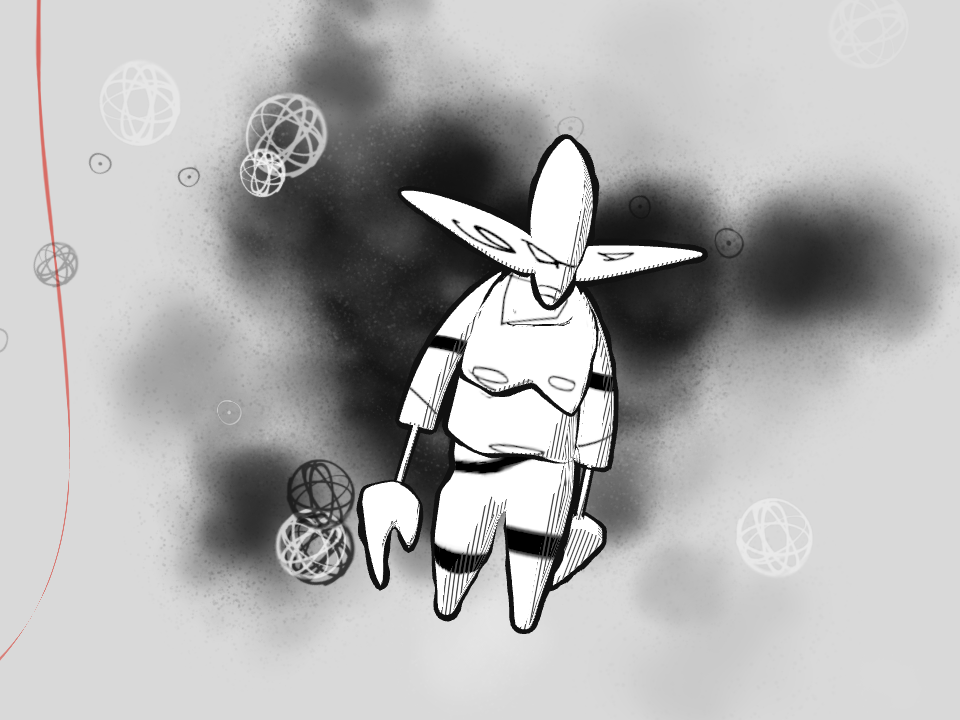
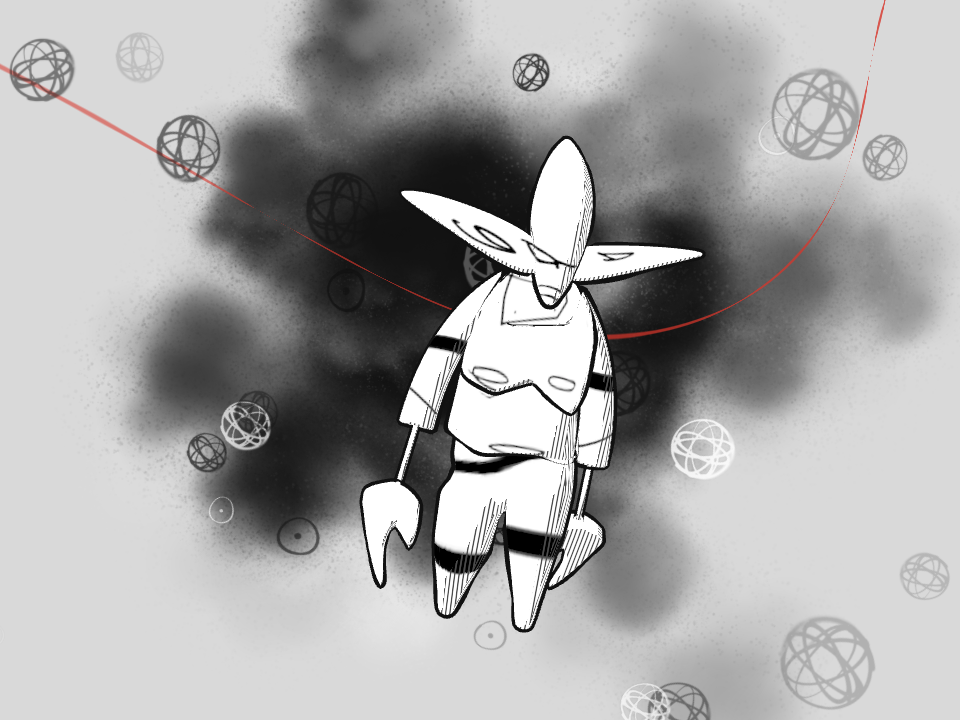
Walk: new default settings

diff --git a/packages/walk/src/main.ts b/packages/walk/src/main.ts
@@ -60,7 +60,7 @@ gltf.scene.traverse(object => { if ((object as THREE.SkinnedMesh).isSkinnedMesh)
 // face sideways where the surface faces front or back, and front where it
 // faces sideways, or they would lie flat against it and smear into bands.
 const shade = {
-  edge: { value: 0.14 },     // how far round from the light the dark side starts
+  edge: { value: 0.13 },     // how far round from the light the dark side starts
   spacing: { value: 0.015 }, // from one hatch line to the next, in metres on the figure
   weight: { value: 0.35 },   // how much of that spacing is line
   towards: { value: new THREE.Vector3() },
@@ -96,13 +96,13 @@ skin.material = paint;
 // surface and less in a crease) and the hull is pushed out less there.
 skin.geometry.setAttribute('crease', skin.geometry.attributes.uv1);
 const outline = {
-  thickness: { value: 0.018 },
+  thickness: { value: 0.012 },
   // How uneven the line's weight is: 0 is an even line, 1 swells to double
   // and thins to nothing along its length.
-  rough: { value: 0.61 },
+  rough: { value: 0.43 },
   // Redraws a second. The roughness holds still between them, like animation
   // on twos; at 0 it never changes and just rides on the figure.
-  boil: 0,
+  boil: 6,
   seed: { value: 0 },
 };
 const ink = new THREE.MeshBasicMaterial({ color: 0x111111, side: THREE.BackSide });
@@ -240,9 +240,9 @@ function eddy(at: THREE.Vector3, time: number, to: THREE.Vector3) {
   return to.set(up, -across, 0).multiplyScalar(curl.strength);
 }
 const flow = new THREE.Vector3();
-const atoms: Spray = { rate: 5, life: 5, size: 0.27, speed: 1.35, drag: 0.4, fall: 0, grow: 1.5, opacity: 1, black: 0.6 };
+const atoms: Spray = { rate: 7, life: 5, size: 0.27, speed: 1.45, drag: 0.4, fall: 0, grow: 1.5, opacity: 1, black: 0.6 };
 const rings: Spray = { rate: 4, life: 3, size: 0.15, speed: 1.35, drag: 0.4, fall: 0, grow: 1.5, opacity: 1, black: 0.6 };
-const clouds: Spray = { rate: 60, life: 8, size: 0.6, speed: 0.35, drag: 0.85, fall: 0, grow: 1.9, opacity: 0.9, black: 0.85 };
+const clouds: Spray = { rate: 60, life: 8, size: 0.6, speed: 0.4, drag: 0.85, fall: 0, grow: 1.9, opacity: 0.9, black: 0.9 };
 
 const atomMap = await new THREE.TextureLoader().loadAsync('./atom.png');
 atomMap.colorSpace = THREE.SRGBColorSpace;
@@ -315,7 +315,7 @@ const pulse = {
   level: 0,       // how far through a pulse the smoke is: 1 at the instant of a clap, falling to 0
   amount: 0.1,    // how much bigger a cloud gets at the top of a pulse, as a share of its size
   fade: 0.2,      // seconds for a pulse to die down to about a third
-  share: 0.4,     // how many of the clouds pulse: always the same ones, the rest stay as they are
+  share: 0.2,     // how many of the clouds pulse: always the same ones, the rest stay as they are
 };
 // The claps aren't listened for as the track plays, which proved jumpy and
 // late: blender/claps.py found them all ahead of time, and this just watches
